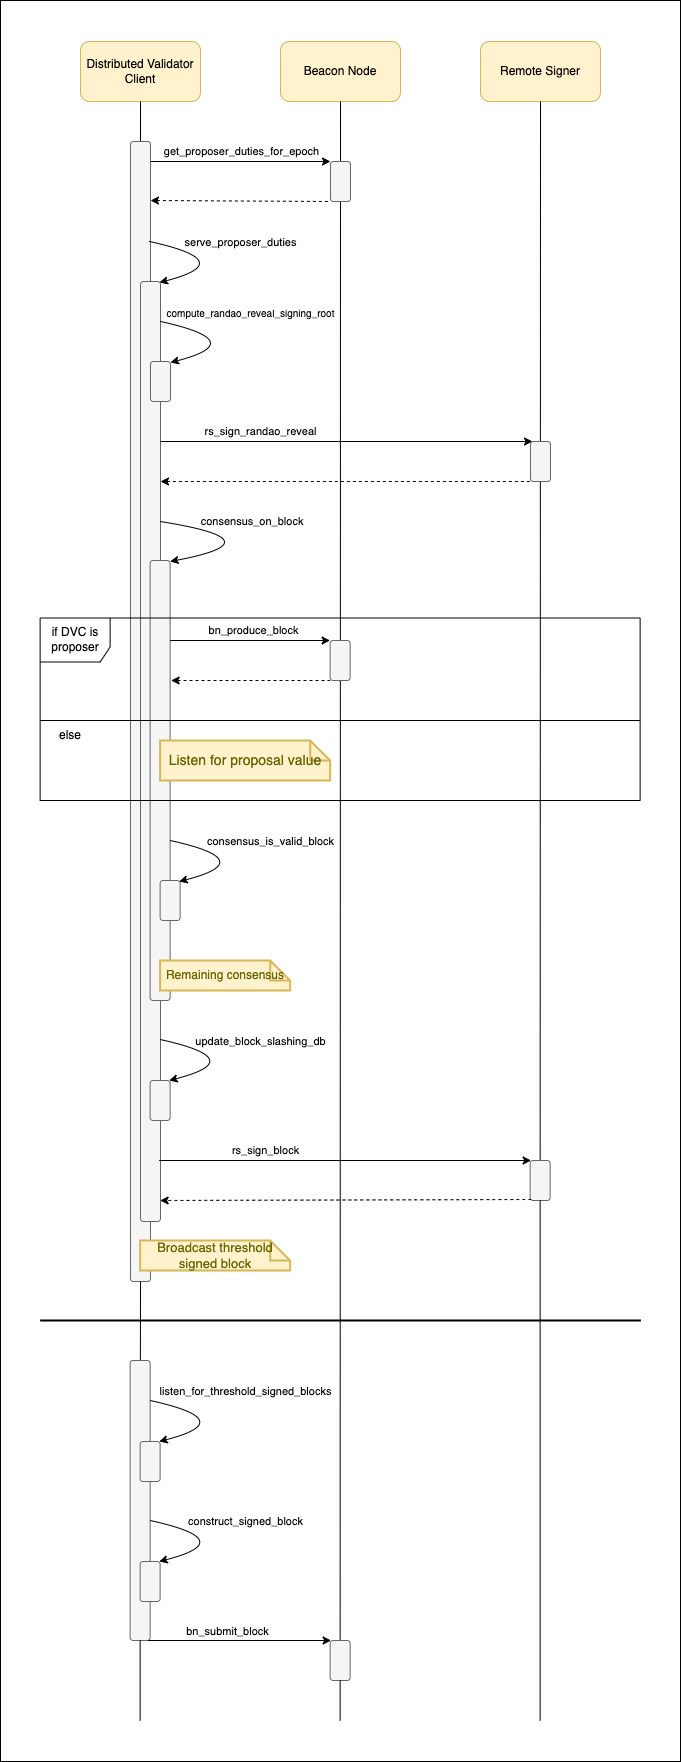
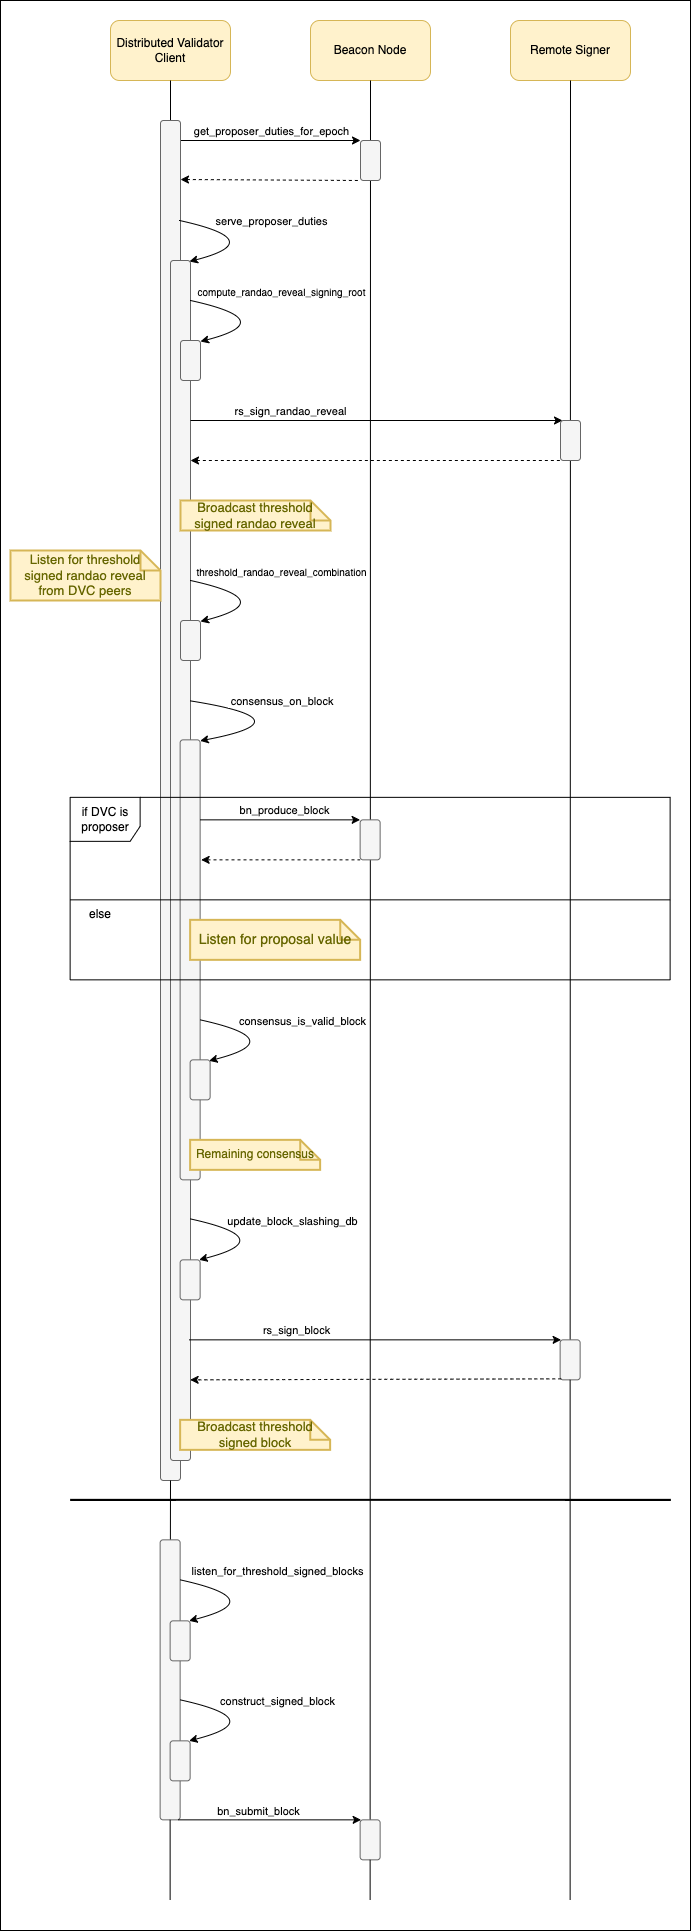
Fix tests, update figure

diff --git a/src/dvspec/spec.py b/src/dvspec/spec.py
@@ -2,6 +2,7 @@ from dataclasses import dataclass
 from typing import (
     List,
 )
+
 from eth2spec.altair.mainnet import (
     AttestationData,
     Attestation,
@@ -59,7 +60,8 @@ from .utils.types import (
     SlashingDB,
     SlashingDBAttestation,
     SlashingDBBlock,
-    ValidatorIndex
+    ValidatorIndex,
+    BLSSignature
 )
 
 
@@ -171,7 +173,6 @@ def serve_proposer_duty(slashing_db: SlashingDB, proposer_duty: ProposerDuty) ->
     randao_reveal_signing_root = compute_randao_reveal_signing_root(proposer_duty.slot)
     threshold_signed_randao_reveal = rs_sign_randao_reveal(compute_epoch_at_slot(proposer_duty.slot),
                                                            fork_version, randao_reveal_signing_root)
-    # TODO: Broadcast, listen for, and combine threshold signed randao_reveal values
     broadcast_threshold_signed_randao_reveal(threshold_signed_randao_reveal)
     randao_reveal = threshold_randao_reveal_combination()
     block = consensus_on_block(slashing_db, proposer_duty, randao_reveal)
@@ -202,7 +203,7 @@ def serve_proposer_duty(slashing_db: SlashingDB, proposer_duty: ProposerDuty) ->
 #     cache_sync_committee_contribution_for_vc(sync_committee_contribution, sync_committee_duty)
 
 
-def threshold_randao_reveal_combination() -> None:
+def threshold_randao_reveal_combination() -> BLSSignature:
     """
     Threshold randao_reveal Combination Process:
     1. Always keep listening for threshold signed randao reveal values from other DVCs.

diff --git a/tests/test.py b/tests/test.py
@@ -26,6 +26,11 @@ from tests.helpers.eth_node_interface import (
     rs_sign_randao_reveal,
     rs_sign_block,
 )
+from tests.helpers.networking import (
+    broadcast_threshold_signed_randao_reveal,
+    listen_for_threshold_signed_randao_reveal,
+    construct_signed_randao_reveal,
+)
 from tests.helpers.patch_dvspec import (
     replace_method_in_dvspec,
 )
@@ -37,6 +42,9 @@ replace_method_in_dvspec("bn_get_fork_version", bn_get_fork_version)
 replace_method_in_dvspec("rs_sign_attestation", rs_sign_attestation)
 replace_method_in_dvspec("rs_sign_randao_reveal", rs_sign_randao_reveal)
 replace_method_in_dvspec("rs_sign_block", rs_sign_block)
+replace_method_in_dvspec("broadcast_threshold_signed_randao_reveal", broadcast_threshold_signed_randao_reveal)
+replace_method_in_dvspec("listen_for_threshold_signed_randao_reveal", listen_for_threshold_signed_randao_reveal)
+replace_method_in_dvspec("construct_signed_randao_reveal", construct_signed_randao_reveal)
 
 
 def test_basic_attestation() -> None:

diff --git a/tests/helpers/networking.py b/tests/helpers/networking.py
@@ -1,0 +1,25 @@
+from typing import (
+    List,
+)
+
+from dvspec.utils.types import (
+    BLSSignature,
+)
+
+TEST_CACHE_RANDAO = None
+
+def broadcast_threshold_signed_randao_reveal(threshold_signed_randao_reveal: BLSSignature) -> None:
+    global TEST_CACHE_RANDAO 
+    TEST_CACHE_RANDAO = threshold_signed_randao_reveal
+
+
+def listen_for_threshold_signed_randao_reveal() -> List[BLSSignature]:
+    global TEST_CACHE_RANDAO
+    assert TEST_CACHE_RANDAO is not None
+    return [TEST_CACHE_RANDAO]
+
+
+def construct_signed_randao_reveal(threshold_signed_values: List[BLSSignature]) -> BLSSignature:
+    """Construct a complete signed randao reveal value from threshold signed values.
+    """
+    return  threshold_signed_values[0]
